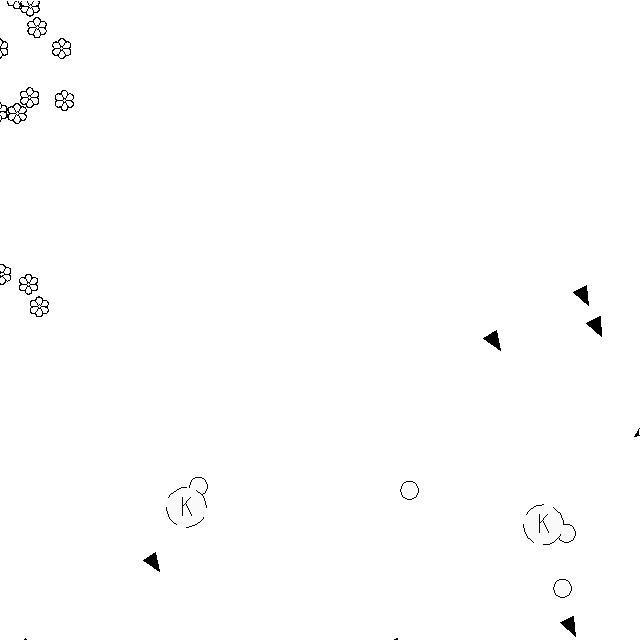
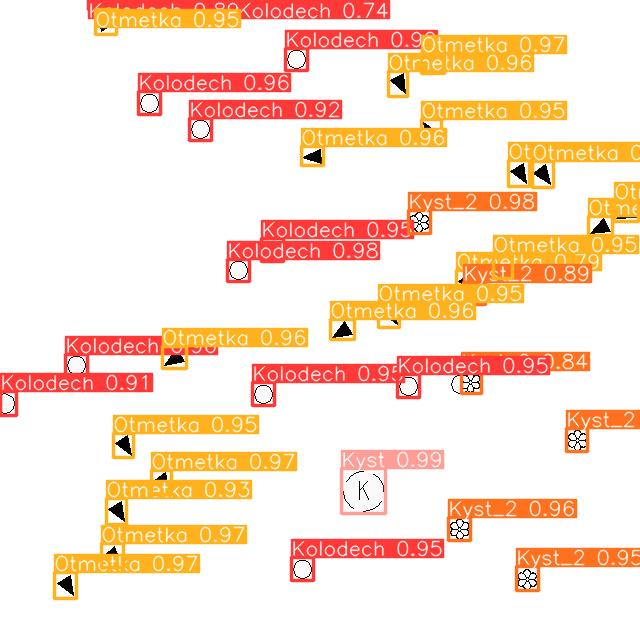
Проверка результатов

diff --git a/predict.py b/predict.py
@@ -2,9 +2,9 @@ from ultralytics import YOLO
 from PIL import Image
 
 # Загрузка модели для пердсказания
-model = YOLO("runs/detect/train3/weights/best.pt")
+model = YOLO("runs/detect/train/weights/best.pt")
 
-results = model(['test.jpg'])
+results = model(['test3.jpg'])
 
 for r in results:
     im_array = r.plot()
